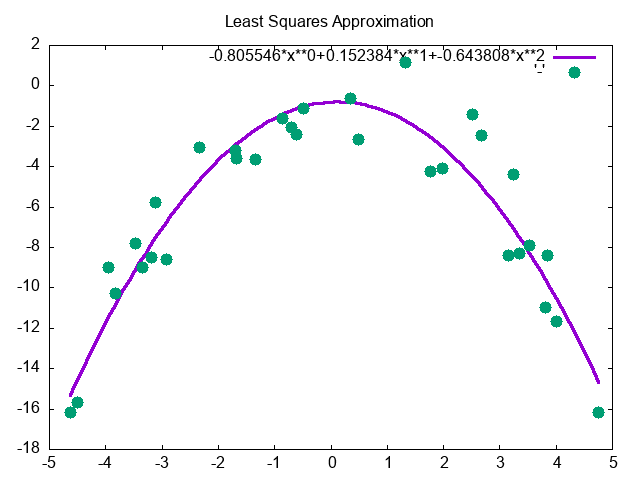
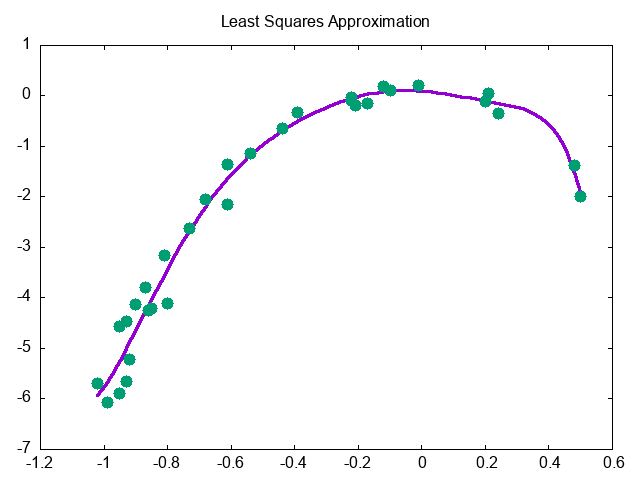
Updated task A

diff --git a/AGLA_joint_assignment_2/generate_points.py b/AGLA_joint_assignment_2/generate_points.py
@@ -1,17 +1,25 @@
 import random
 
-a = random.random() * 2 - 1
-b = random.random() * 2 - 1
-c = random.random() * 2 - 1
-F = lambda x: a * x * x + b * c
-
 output = ''
+DEVIATION = 0.1
 M = 32
-N = 2
-output += f"{M}\n"
+N = 8
+
+coeffs = [random.random() * 10 - 5 for _ in range(N + 1)]
+F = lambda x: sum(coeffs[i] * x ** i for i in range(N + 1))
+
+points = []
 for _ in range(M):
-    x = random.random() * 10 - 5
-    y = F(x) + random.random() * 6 - 3
+    x = random.random() * random.random() * 2 - 1
+    y = F(x)
+    points.append((x, y))
+max_x = max(points, key=lambda x: abs(x[0]))[0]
+max_y = max(points, key=lambda x: abs(x[1]))[1]
+
+output += f"{M}\n"
+for i in range(M):
+    x = points[i][0] + random.random() * max_x * DEVIATION - max_x * DEVIATION / 2
+    y = points[i][1] + random.random() * max_y * DEVIATION - max_y * DEVIATION / 2
     output += f"{round(x, 2)} {round(y, 2)}\n"
 output += f"{N}"
 

diff --git a/AGLA_joint_assignment_2/A.cpp b/AGLA_joint_assignment_2/A.cpp
@@ -460,11 +460,14 @@ int main(void)
     fprintf(pipe, "%s\n", "set terminal png");
     fprintf(pipe, "%s\n", "set output 'output.png'");
     fprintf(pipe, "%s\n", "set title \"Least Squares Approximation\"");
+    fprintf(pipe, "%s\n", "set key noautotitle");
     fprintf(pipe, "%s\n", "set autoscale xy");
     fprintf(pipe, "%s\n", "set offsets 0.05, 0.05, 0.05, 0.05");
     string func;
     for (int i = 0; i <= n; i++)
     {
+        if (*A_4->operator[](i) < 0 and i != 0)
+            func = func.substr(0, func.size() - 1);
         func += to_string(*A_4->operator[](i));
         func += '*';
         func += "x**";
@@ -472,6 +475,7 @@ int main(void)
         if (i != n)
             func += '+';
     }
+    cout << func << endl;
     fprintf(pipe, "plot %s lw 3, '-' w p pt 7 ps 2\n", func.c_str());
     for (int i = 0; i < m; i++)
         fprintf(pipe, "%lf %lf\n", t[i], *b->operator[](i));
